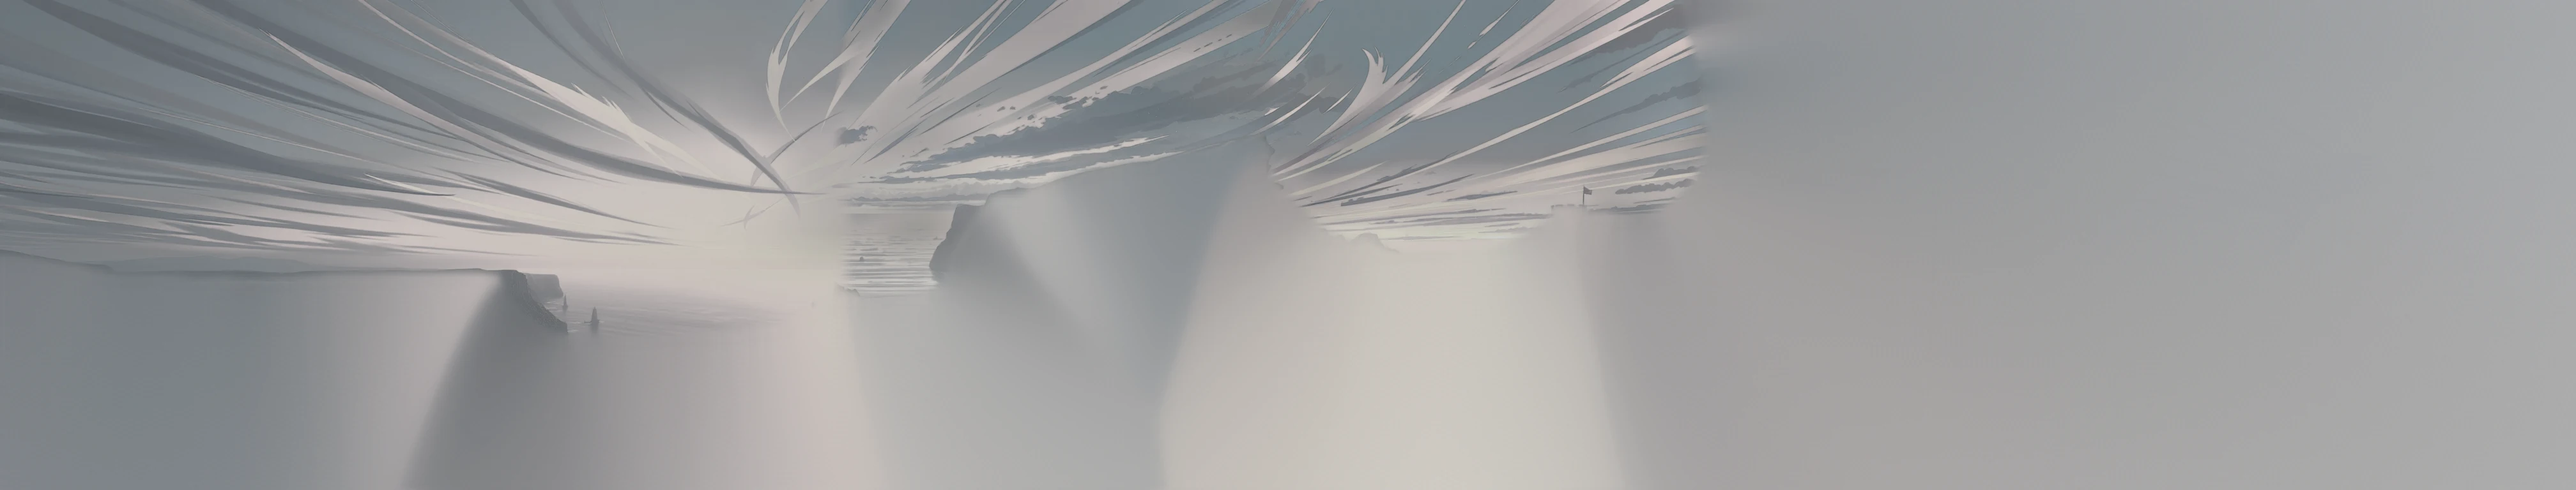
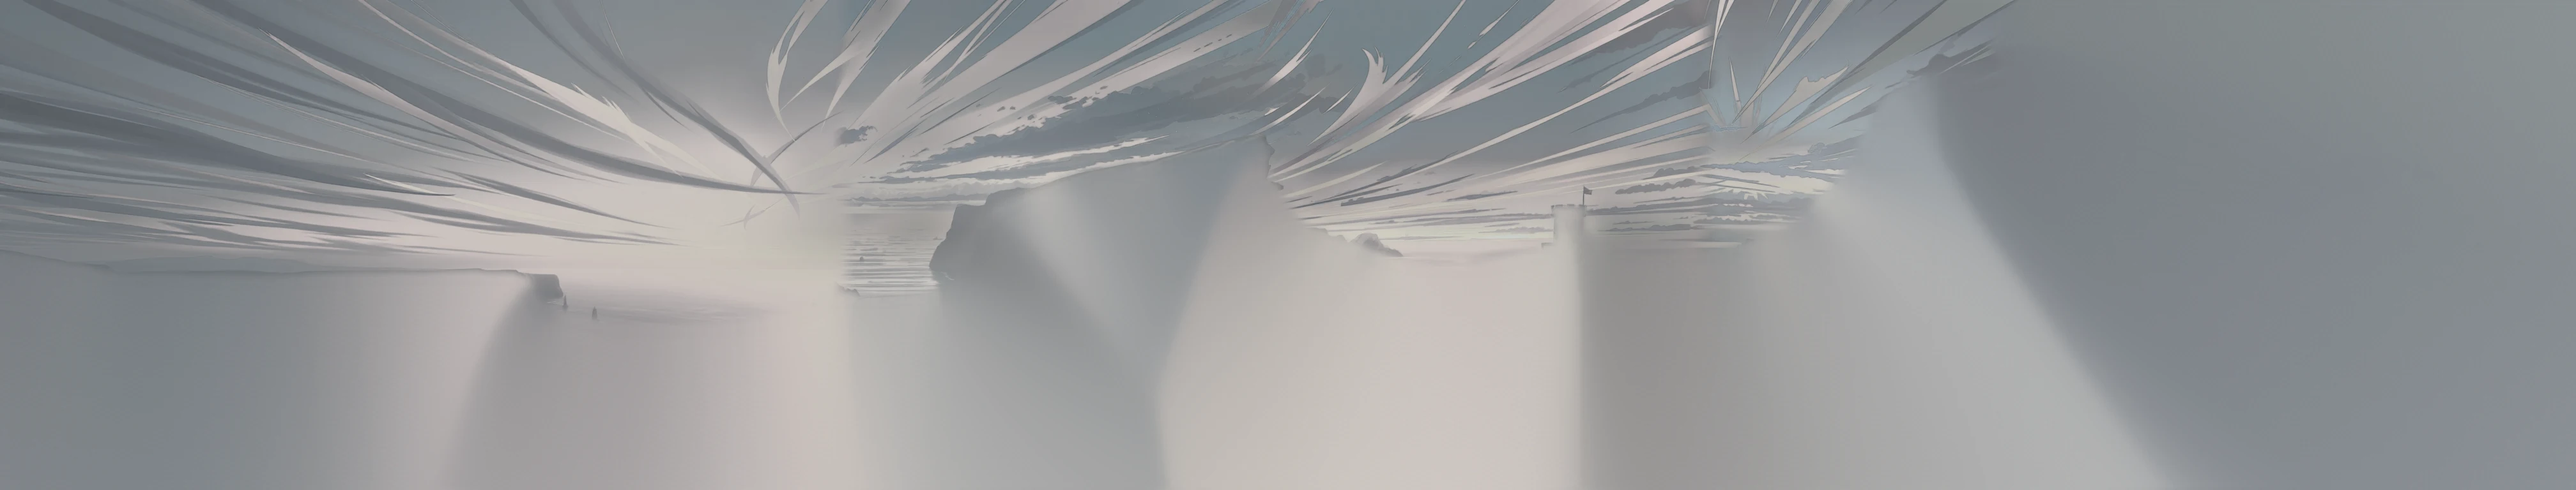
Younger screens that read well on their daylight worlds
- Overlays behind words use each theme's scrim, and words drawn on the world get a halo
  in the theme's colour (light behind dark words), so K-5 screens aren't dark-on-dark
- The world's edge vignette is per world: full for night, soft for the daylight worlds
- README: what each age style looks like now

diff --git a/components/game/Overlays.tsx b/components/game/Overlays.tsx
@@ -48,10 +48,10 @@ export function TitleScreen({
   return (
     <motion.div className="absolute inset-0 z-20 flex items-end md:items-center" exit={calm ? undefined : { opacity: 0, transition: { duration: 0.5 } }}>
       {/* darken the left side so the title reads, keep the right side (Gloam) clear */}
-      <div className="pointer-events-none absolute inset-0 bg-[linear-gradient(90deg,rgb(5_10_8/0.85)_0%,rgb(5_10_8/0.55)_38%,transparent_65%)] max-md:bg-[linear-gradient(0deg,rgb(5_10_8/0.92)_0%,rgb(5_10_8/0.6)_45%,transparent_70%)]" />
+      <div className="pointer-events-none absolute inset-0 bg-[linear-gradient(90deg,rgb(var(--t-scrim)/0.85)_0%,rgb(var(--t-scrim)/0.55)_38%,transparent_65%)] max-md:bg-[linear-gradient(0deg,rgb(var(--t-scrim)/0.92)_0%,rgb(var(--t-scrim)/0.6)_45%,transparent_70%)]" />
       <div className="relative w-full px-6 pb-10 md:w-auto md:px-[7vw] md:pb-0">
         <motion.h1 {...rise(0.35)} className="mt-3 text-[4rem] text-ink md:text-[6.5rem]">
-          <Wordmark tone="dark" mark={false} />
+          <Wordmark tone={style.look.tone} mark={false} />
         </motion.h1>
         <motion.p {...rise(0.5)} className="mt-5 max-w-[24ch] text-lg text-ink">
           {lesson.title}
@@ -101,7 +101,7 @@ export function TitleScreen({
 
 export function TopBar({ style, lesson, levels, current, onPause }: { style: AgeStyle; lesson: ClientLesson; levels: Level[]; current: number; onPause: () => void }) {
   return (
-    <div className="pointer-events-none absolute inset-x-0 top-0 z-10 flex items-start justify-between gap-4 bg-[linear-gradient(180deg,rgb(5_10_8/0.7),transparent)] px-4 pt-3 pb-10 sm:px-6">
+    <div className="pointer-events-none absolute inset-x-0 top-0 z-10 flex items-start justify-between gap-4 bg-[linear-gradient(180deg,rgb(var(--t-scrim)/0.7),transparent)] px-4 pt-3 pb-10 sm:px-6">
       <div className="min-w-0">
         <h1 className="truncate text-sm font-bold text-ink">{lesson.title}</h1>
         <TrailStrip style={style} concepts={lesson.concepts} levels={levels} current={Math.min(current, lesson.concepts.length - 1)} />
@@ -423,7 +423,7 @@ export function StoryCaption({ text }: { text: string | null }) {
         {text && (
           <motion.p
             key={text}
-            className="voice max-w-[40ch] text-center text-md text-ink [text-shadow:0_1px_10px_rgb(0_0_0/0.95)]"
+            className="voice max-w-[40ch] text-center text-md text-ink [text-shadow:0_1px_10px_rgb(var(--t-glow)/0.95)]"
             style={{ ["--casual" as string]: 0.7, ["--slant" as string]: -8, ["--voice-weight" as string]: 500 }}
             initial={calm ? false : { opacity: 0, y: 6 }}
             animate={{ opacity: 1, y: 0 }}

diff --git a/components/game/JourneyMoments.tsx b/components/game/JourneyMoments.tsx
@@ -16,7 +16,7 @@ export function TravelQuip({ text, gloam }: { text: string | null; gloam: GloamB
         <motion.p
           key={text}
           aria-live="polite"
-          className="voice pointer-events-none absolute z-20 max-w-[30ch] -translate-x-1/2 text-center text-sm text-ink [text-shadow:0_1px_10px_rgb(0_0_0/0.95)]"
+          className="voice pointer-events-none absolute z-20 max-w-[30ch] -translate-x-1/2 text-center text-sm text-ink [text-shadow:0_1px_10px_rgb(var(--t-glow)/0.95)]"
           style={{ left: gloam.cx, top: Math.max(70, gloam.top - 56), ["--casual" as string]: 0.9, ["--slant" as string]: -6 }}
           initial={calm ? false : { opacity: 0, y: 8 }}
           animate={{ opacity: 1, y: 0 }}
@@ -48,7 +48,7 @@ export function ChapterCard({ style, chapter, total, beat }: { style: AgeStyle; 
           exit={calm ? undefined : { opacity: 0, transition: { duration: 1.2 } }}
         >
           <motion.p
-            className="voice text-xl text-ink [text-shadow:0_2px_18px_rgb(0_0_0/0.9)] md:text-2xl"
+            className="voice text-xl text-ink [text-shadow:0_2px_18px_rgb(var(--t-glow)/0.9)] md:text-2xl"
             style={{ ["--casual" as string]: 1, ["--voice-weight" as string]: 800 }}
             initial={calm ? false : { opacity: 0, letterSpacing: "0.3em", filter: "blur(6px)" }}
             animate={{ opacity: 1, letterSpacing: "0em", filter: "blur(0px)" }}
@@ -65,7 +65,7 @@ export function ChapterCard({ style, chapter, total, beat }: { style: AgeStyle; 
             transition={{ delay: 0.5, duration: 1.1, ease: [0.22, 1, 0.36, 1] }}
           />
           <motion.p
-            className="voice mt-3 max-w-[38ch] text-md text-ink-dim [text-shadow:0_1px_12px_rgb(0_0_0/0.95)]"
+            className="voice mt-3 max-w-[38ch] text-md text-ink-dim [text-shadow:0_1px_12px_rgb(var(--t-glow)/0.95)]"
             style={{ ["--casual" as string]: 0.6, ["--slant" as string]: -8, ["--voice-weight" as string]: 500 }}
             initial={calm ? false : { opacity: 0, y: 6 }}
             animate={{ opacity: 1, y: 0 }}

diff --git a/components/game/DialogueBand.tsx b/components/game/DialogueBand.tsx
@@ -189,7 +189,7 @@ export function DialogueBand({ s, style, gloam, wide, onOpenLog }: { s: TeachSes
   return (
     <>
       {wide && gloam && <SpeechPanel gloam={gloam} wide seed="speech">{speech}</SpeechPanel>}
-      <div className="absolute inset-x-0 bottom-0 z-20 bg-[linear-gradient(0deg,rgb(5_10_8/0.92)_0%,rgb(5_10_8/0.7)_55%,transparent_100%)] pt-10">
+      <div className="absolute inset-x-0 bottom-0 z-20 bg-[linear-gradient(0deg,rgb(var(--t-scrim)/0.92)_0%,rgb(var(--t-scrim)/0.7)_55%,transparent_100%)] pt-10">
         <div className="mx-auto flex max-w-[860px] flex-col gap-4 px-4 pb-4 sm:px-8 md:pb-6">
           {!wide && <SpeechPanel gloam={gloam} wide={false} seed="speech-narrow">{speech}</SpeechPanel>}
 
@@ -311,6 +311,6 @@ export function IntroBand({ s, style, steps, gloam, wide }: { s: TeachSession; s
   return wide && gloam ? (
     panel
   ) : (
-    <div className="absolute inset-x-0 bottom-0 z-20 bg-[linear-gradient(0deg,rgb(5_10_8/0.92)_0%,rgb(5_10_8/0.7)_55%,transparent_100%)] px-4 pt-10 pb-5">{panel}</div>
+    <div className="absolute inset-x-0 bottom-0 z-20 bg-[linear-gradient(0deg,rgb(var(--t-scrim)/0.92)_0%,rgb(var(--t-scrim)/0.7)_55%,transparent_100%)] px-4 pt-10 pb-5">{panel}</div>
   );
 }

diff --git a/lib/age-styles/worlds.ts b/lib/age-styles/worlds.ts
@@ -22,6 +22,7 @@ export const littleWorld: JourneyWorld = {
   start: 0.23,
   end: 0.83,
   fog: "#d9e2e6",
+  vignette: 0.3,
   firefly: "#fff2b3",
   map: { dark: "/art/little/journey-map-dark.webp", lit: "/art/little/journey-map-lit.webp" },
   // painted from art/worlds/little.json (seed 42; its painted candle erased: the game draws the real one), cut out by art/cutout.py
@@ -42,6 +43,7 @@ export const juniorWorld: JourneyWorld = {
   start: 0.23,
   end: 0.83,
   fog: "#c9c3da",
+  vignette: 0.4,
   firefly: "#ffe6a8",
   map: { dark: "/art/junior/journey-map-dark.webp", lit: "/art/junior/journey-map-lit.webp" },
   // painted from art/worlds/junior.json (seed 43, painted candle erased), cut out by art/cutout.py
@@ -62,6 +64,7 @@ export const middleWorld: JourneyWorld = {
   start: 0.23,
   end: 0.83,
   fog: "#aab4c8",
+  vignette: 0.7,
   firefly: "#ffd98a",
   map: { dark: "/art/middle/journey-map-dark.webp", lit: "/art/middle/journey-map-lit.webp" },
   // painted from art/worlds/middle.json (seed 41, painted candle erased), cut out by art/cutout.py

diff --git a/app/globals.css b/app/globals.css
@@ -101,6 +101,8 @@
   --t-warn: #9b2c2c;
   /* what text sits on over the painted world (r g b): paper here, night for high school */
   --t-scrim: 232 237 227;
+  /* the halo behind words drawn straight on the world (r g b): light behind dark words, dark behind light ones */
+  --t-glow: 255 250 238;
   --t-voice-font: var(--font-shantell), system-ui, sans-serif;
 }
 
@@ -164,6 +166,7 @@
   --t-moon: #7fd3ff;
   --t-warn: #ffb38a;
   --t-scrim: 12 18 33;
+  --t-glow: 0 0 0;
 }
 
 /*
@@ -188,6 +191,7 @@
   --t-moon: #8ec5dc;
   --t-warn: #f2a37a;
   --t-scrim: 5 10 8;
+  --t-glow: 0 0 0;
   --t-voice-font: var(--font-recursive), system-ui, sans-serif;
 }
 

diff --git a/components/cinema/JourneyWorld.tsx b/components/cinema/JourneyWorld.tsx
@@ -190,6 +190,8 @@ export function JourneyWorld(props: JourneyProps) {
       const grain = new PIXI.TilingSprite({ texture: grainTex, width: 10, height: 10 });
       grain.alpha = 0.06;
       const vignette = new PIXI.Sprite(vignetteTex);
+      // night worlds get the full dark edges; daylight storybook worlds only a soft one
+      vignette.alpha = world.vignette ?? 1;
       const bloom = new AdvancedBloomFilter({ threshold: 0.62, bloomScale: 0.8, brightness: 1, blur: 8, quality: 5 });
       if (!lite) litWorld.filters = [bloom];
       litWorld.filterArea = app.screen;

diff --git a/lib/age-styles/types.ts b/lib/age-styles/types.ts
@@ -35,6 +35,8 @@ export interface JourneyWorld {
   end: number;
   fog: string;
   firefly: string;
+  /** How dark the screen's edges get (0..1, default 1 = the night valley's full vignette) */
+  vignette?: number;
   /** The whole journey, small, for the trail map (dark and lit) */
   map?: { dark: string; lit: string };
   /** Short, hand-written things Gloam notices while walking between checkpoints (no AI) */

diff --git a/README.md b/README.md
@@ -124,12 +124,14 @@ Gloam itself is an **animated rig** (`lib/gloam-rig/`, `components/gloam/rig/`):
 
 Protégé is for every grade, K–12. The core idea never changes, but **how it feels** adapts to the class. Each age group has one profile in `lib/age-styles/`:
 
-| Style | Grades | Gloam is… | Looks like… | Status |
+| Style | Grades | Gloam is… | Its world | Its screens |
 |---|---|---|---|---|
-| `little` | K–2 | silly, gentle, tiny words | bright storybook | basic |
-| `junior` | 3–5 | playful, a bit silly | bright storybook | basic |
-| `middle` | 6–8 | goofy, dramatic | storybook | basic |
-| `senior` | 9–12 | dry, deadpan, smugly wrong | moody indie game at night | **polished** |
+| `little` | K–2 | a round, bright fluffball with huge eyes; silly, gentle, tiny words | a sunny storybook meadow | cream paper, bigger text and buttons, read-aloud, sentence starters, 2 secret pictures |
+| `junior` | 3–5 | a playful buddy with a tuft and a cheeky grin | a storybook forest with mushroom houses | lavender paper, bigger text, read-aloud, sentence starters |
+| `middle` | 6–8 | goofy and dramatic, in a scarf, with big eyebrows | windy sea cliffs at twilight | twilight navy, game-like |
+| `senior` | 9–12 | dry, deadpan, smugly wrong | a moody night valley | night paper, lantern-lit |
+
+The younger worlds are painted in daylight: unlit, they're faded to grey, and every idea a student teaches brings the colour back. Each world and Gloam is made by scripts (`art/world.py`, `art/gloam2_rig.py` with `art/worlds/*.json` and `art/rigs/*.json`) and can be replaced 1:1 by an artist.
 
 A profile controls Gloam's personality and AI rules, its **hand-written lines** (most of the jokes live here, so they're consistent and never repeat), every word on screen, the visuals (Gloam's skin, the valley, colors, Gloam's voice font), how big the celebrations are, how strict safety is (stricter for younger kids), and input options (bigger buttons, read-aloud and voice later). Nothing outside `lib/age-styles/` should be written for one age group.
 
